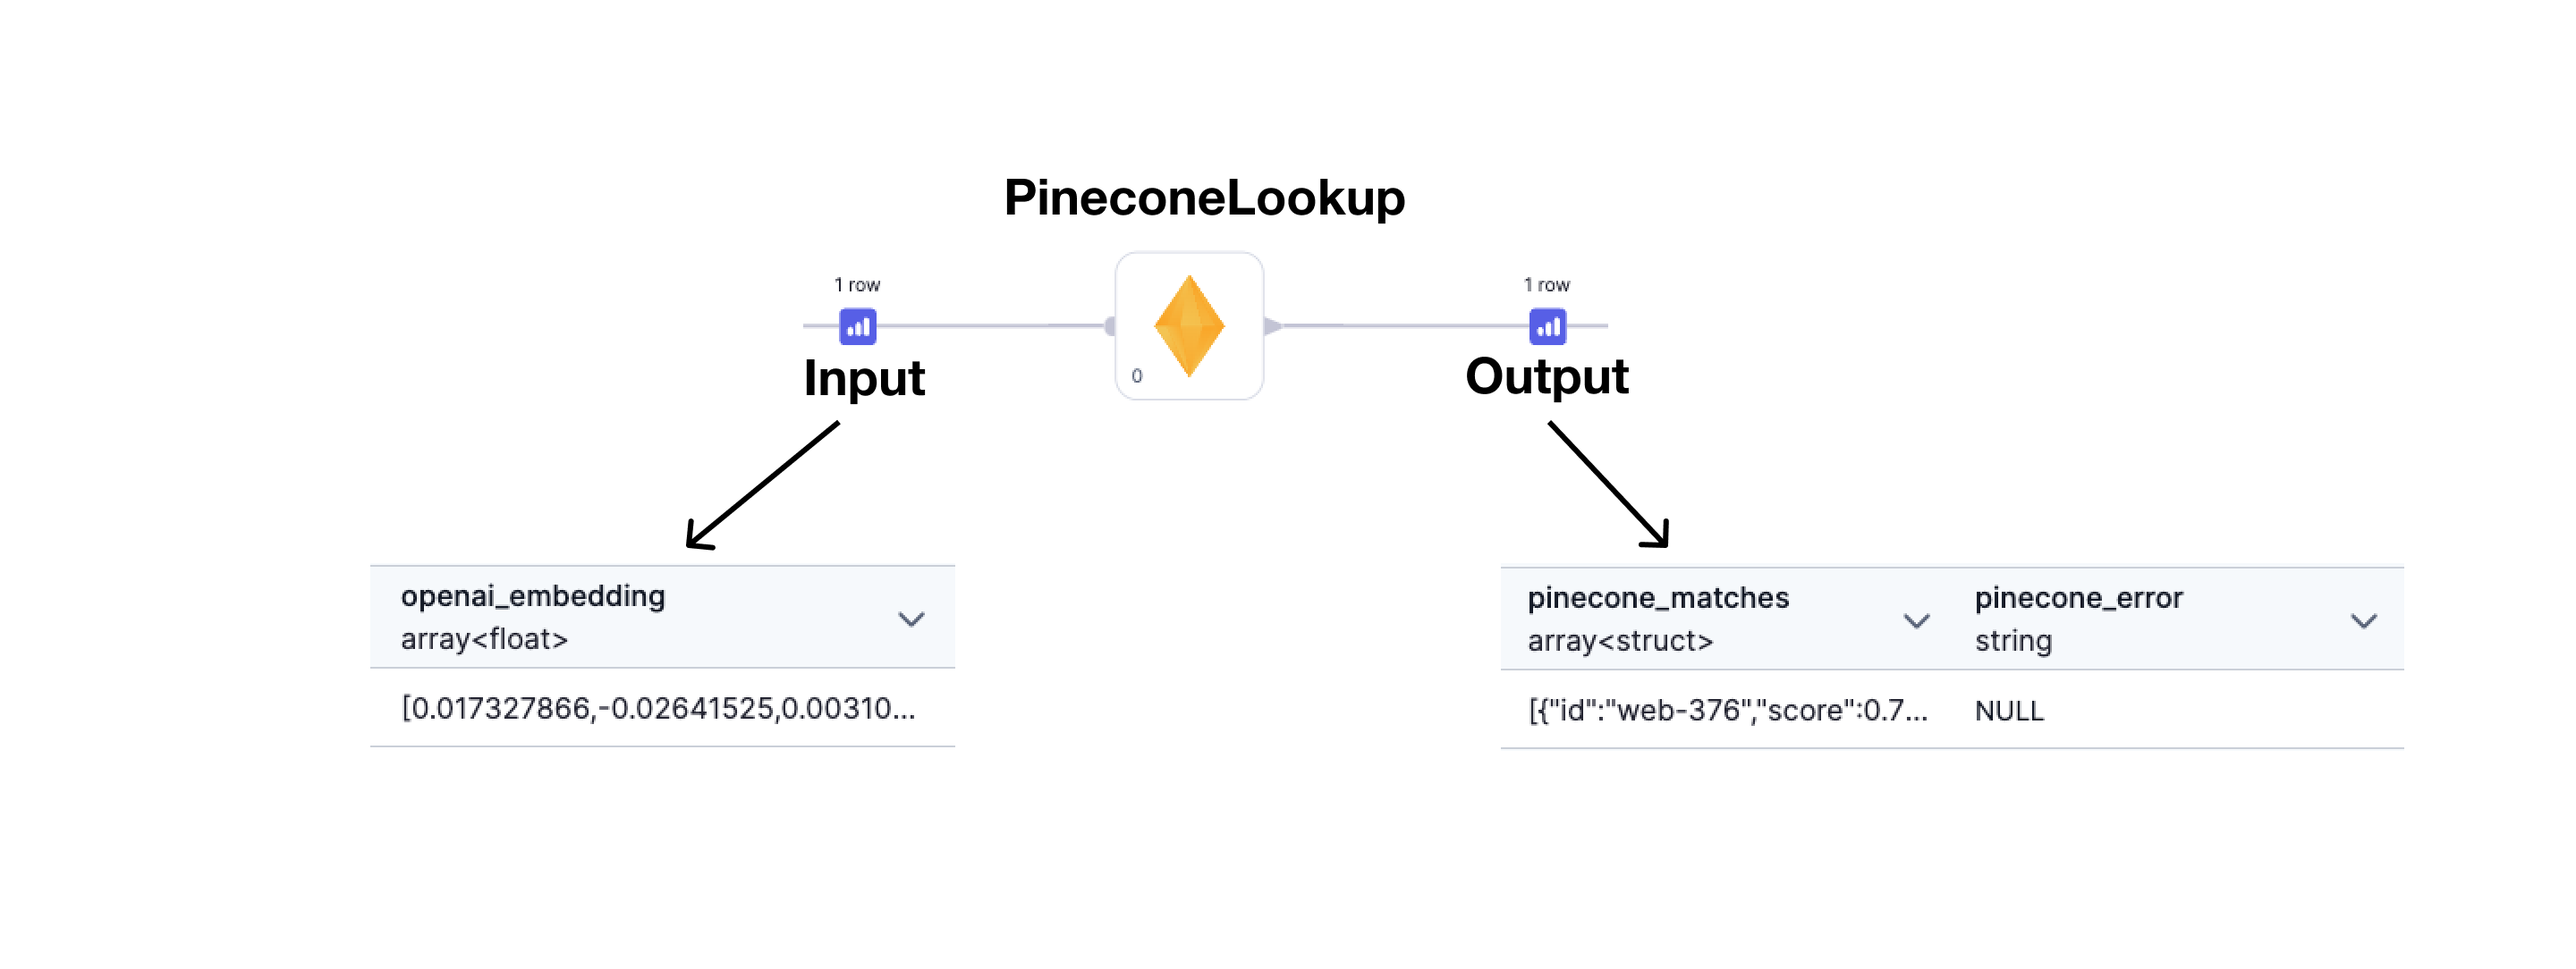
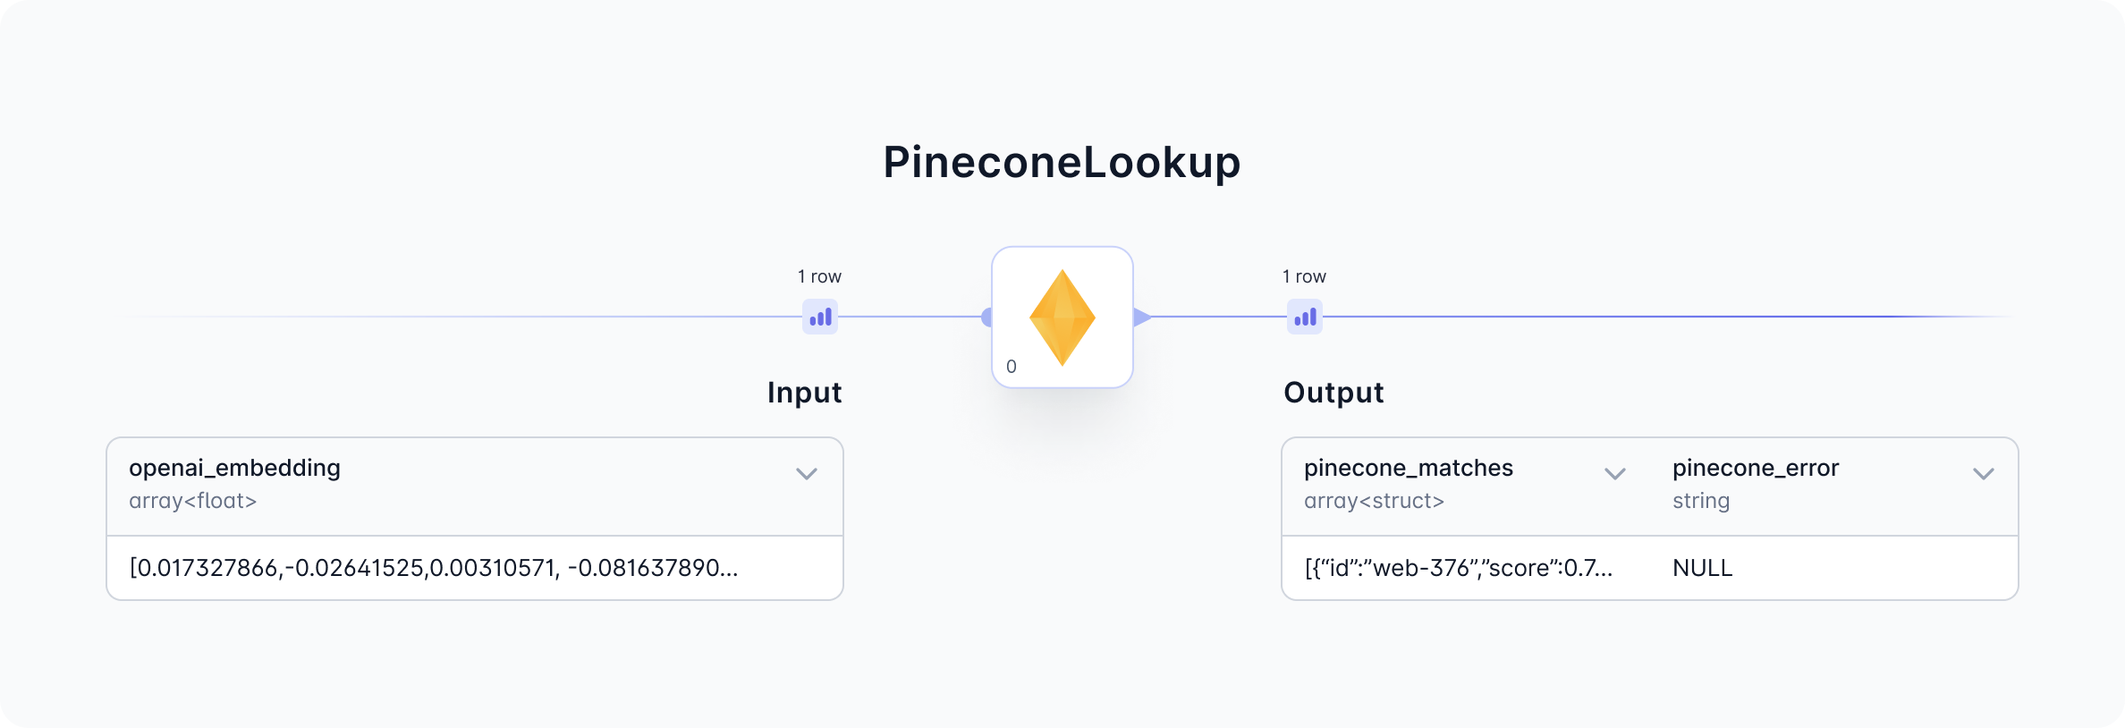
pinecone_lookup ready for review

diff --git a/docs/low-code-spark/gems/machine-learning/ml-pinecone-lookup.md b/docs/low-code-spark/gems/machine-learning/ml-pinecone-lookup.md
@@ -35,10 +35,9 @@ Pinecone Lookup requires credentials and a model_embedding.
 
 ### Gem Configuration
 
-todo: increase font
 ![Configuration](./img/pinecone_lookup_configure.png)
 
-Verify an **(1) input column** contains an embedding from a foundational model, eg OpenAI.
+Verify the **(1) input columns** contain a column with the embeddings. The structure of this column's entries must be compatible with the structure of the Pinecone index.
 
 #### Credentials
 
@@ -48,9 +47,9 @@ Hardcoding the Pinecone credential is not recommended. Selecting this option cou
 
 #### Properties
 
-Pinecone DB uses indexing to map the vectors to a data structure that will enable faster searching. The Pinecone Lookup Gem searches through a Pinecone index to identify embeddings with similarity to the input embedding. Enter the Pinecone **[(4) Index name](/docs/low-code-spark/Gems/machine-learning/ml-pinecone-lookup.md#faq)** which you’d like to use for looking up embeddings.
+Pinecone DB uses indexing to map the vectors to a data structure that will enable faster searching. The Pinecone Lookup Gem searches through a Pinecone index to identify embeddings with similarity to the input embedding. Enter the Pinecone **[(4) Index name](/docs/low-code-spark/gems/machine-learning/ml-pinecone-lookup.md#faq)** which you’d like to use for looking up embeddings.
 
-Select one of the Gem’s input columns with vector embeddings as the **(5) Vector column** to send to Pinecone’s API. The column [must](/docs/low-code-spark/Gems/machine-learning/ml-pinecone-lookup.md#input-columns) be compatible with the Pinecone Index. To change the column’s datatype and properties, [configure](/docs/low-code-spark/Gems/machine-learning/ml-pinecone-lookup.md#faq) the Gem(s) preceding the Pinecone Lookup Gem.
+Select one of the Gem’s input columns with vector embeddings as the **(5) Vector column** to send to Pinecone’s API. The column [must](/docs/low-code-spark/gems/machine-learning/ml-pinecone-lookup.md#input-columns) be compatible with the Pinecone Index. To change the column’s datatype and properties, [configure](/docs/low-code-spark/gems/machine-learning/ml-pinecone-lookup.md#faq) the Gem(s) preceding the Pinecone Lookup Gem.
 
 Pinecone’s API can return multiple results. Depending on the use case, select the desired **(6) Number of results** sorted by similarity score. The result with highest similarity to the user’s text question will be listed first.
 
@@ -91,7 +90,7 @@ def vector_lookup(spark: SparkSession, in0: DataFrame) -> DataFrame:
 <TabItem value="scala" label="Scala">
 
 ```scala
-   todo
+  [page under construction]
 ```
 
 </TabItem>
@@ -108,22 +107,3 @@ To troubleshoot the Gem preceding Pinecone Lookup, open the data preview output 
 #### Creating a Pinecone Index
 
 If you don’t have one yet, [create a Pinecone index](https://docs.pinecone.io/docs/quickstart). Click [here](https://docs.pinecone.io/docs/choosing-index-type-and-size) for pointers on choosing an index type and size. How to populate the index? For example, [this guide](https://docs.prophecy.io/getting-started/gen-ai-chatbot#step-2-build-a-knowledge-warehouse) shows how to ingest and vectorize web content data to store in a Pinecone Database index.
-
-#### Do you support additional models and vector databases?
-
-LLMs Supported
-
-- 🚧 OpenAI
-- 🚧 Spark-ML
-- 🗺 Databrick's Dolly
-- 🗺 HuggingFace's Models
-
-Vector Databases Supported
-
-- 🚧 Pinecone
-- 🚧 Spark-ML (table store & cos sim)
-- 🗺 ElasticSearch
-
-And many more are coming soon (feel free to request at contact.us@Prophecy.io)! 🚀
-
-✅: General Availability; 🚧: Beta availability; 🗺: Roadmap;

diff --git a/docs/low-code-spark/gems/machine-learning/machine-learning.md b/docs/low-code-spark/gems/machine-learning/machine-learning.md
@@ -5,7 +5,9 @@ description: Preparing and Using Data for Machine Learning
 tags: [generative-ai, machine-learning, llm, pinecone, openai]
 ---
 
-The set of Gems that prepare or use data for Machine Learning
+[page under construction]
+
+Each page below describes one of the set of Gems that prepare or use data for Machine Learning.
 
 ```mdx-code-block
 import DocCardList from '@theme/DocCardList';
@@ -13,3 +15,36 @@ import {useCurrentSidebarCategory} from '@docusaurus/theme-common';
 
 <DocCardList items={useCurrentSidebarCategory().items}/>
 ```
+
+### ML Roadmap (as of Prophecy 3.1)
+
+Data sources supported:
+
+- 🚧 Slack
+- 🗺 PDFs
+- 🗺 Asana
+- 🗺 Notion
+- 🗺 Google Drive
+- 🗺 Web-scrape
+
+Vector databases supported:
+
+- 🚧 Pinecone
+- 🚧 Spark-ML (table store and cos sim)
+- 🗺 ElasticSearch
+
+LLMs supported:
+
+- 🚧 OpenAI
+- 🚧 Spark-ML
+- 🗺 Databrick's Dolly
+- 🗺 HuggingFace's Models
+
+Application interfaces supported:
+
+- 🚧 Slack
+- 🗺 Microsoft Teams
+
+And many more are coming soon (feel free to request as issues)! 🚀
+
+✅: General Availability; 🚧: Beta availability; 🗺: Roadmap;

diff --git a/docs/low-code-spark/gems/machine-learning/openai.md b/docs/low-code-spark/gems/machine-learning/openai.md
@@ -5,3 +5,5 @@ id: ml-openai
 description: Generate a vector embedding from OpenAI model ada-002.
 tags: [generative-ai, machine-learning, llm, openai, embedding, vector]
 ---
+
+[page under construction]

diff --git a/docs/low-code-spark/gems/machine-learning/ml-text-processing.md b/docs/low-code-spark/gems/machine-learning/ml-text-processing.md
@@ -14,3 +14,5 @@ tags:
     extract,
   ]
 ---
+
+[page under construction]
